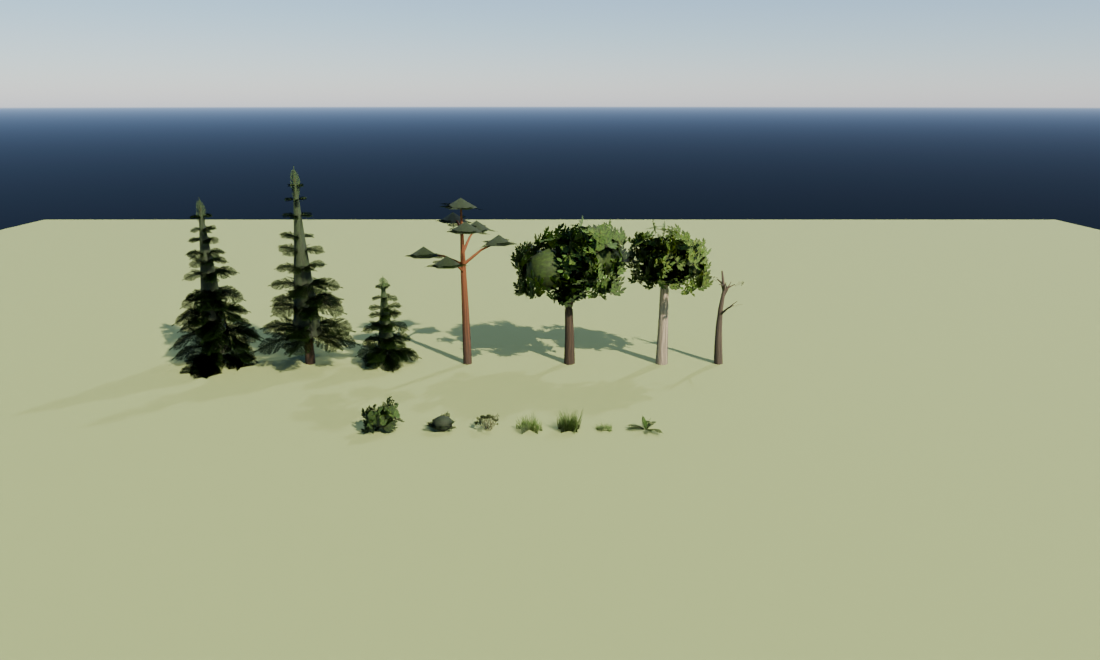
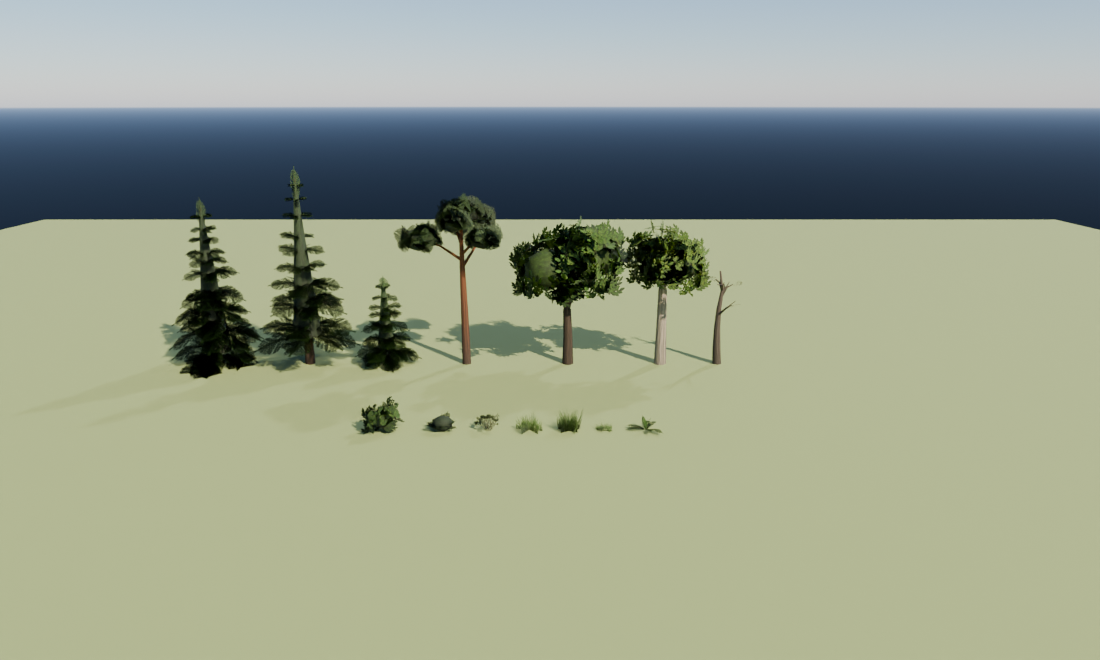
Scatter: re-export with the new pine, fresh previews + contact sheet, project memory
Claude-Session: https://claude.ai/code/session_01QVhVPAL9PKdtfwepf8LoLq

Changed region(s): [[0.34, 0.2727, 0.68, 0.5455], [0.3091, 0.4848, 0.4327, 0.5152]]

diff --git a/CLAUDE.md b/CLAUDE.md
@@ -54,7 +54,7 @@ Fan-made Star Trek RTS design package plus a playable Godot prototype. `README.m
 - **Owner tested 2026-11-05: "it works"** — Mining Vehicle Mk I in the game and the drop ship deliveries.
 - **Outpost levels (next candidate, waiting on the owner, 2026-11-05):** owner asked to see the outpost mockup again (sent `blender/previews/outpost/outpost-sheet.png` + the L1/L5/L10 game-camera renders). Two questions are open before it goes into the game: (1) does the Colony Hub get 10 real levels in buildings.json (cost, build_seconds, what each unlocks) or stay at 3 data levels (Colony Hub → Colonial Administration → Planetary Capital) with the in-between levels only changing the model; (2) do levels 7–10 claim the neighbouring tiles (nothing else buildable there) or only overlap them visually. Other options offered at the same time: construction rover + second outposts, rover damage + flat tyres, the Cardassian rival; smaller: Alloy Foundry pause, rover mark research, game-ready Federation outpost glb.
 - **Depletion:** used-up mines go `Depleted`; `SalvageCommand` (X on a finished non-core building) refunds `salvage_refund` (50%) and frees the tile; `deep_core_mine` (`requires_depleted`, `reopen_share` 0.5, `requires_tech` deep_core_mining) reopens a deposit once (`SurfaceMap.DepositStart` / `DepositReopened`).
-- **Rendering:** fog is render-only (`PlanetView.FogAt`: visible = within 3 tiles of own buildings / survey radius + 1 of rovers), drawn through a one-texel-per-tile texture the terrain, water and foliage shaders sample by world position. Terrain is one mesh (corners average neighbouring heights; hexes subdivided with bumps; mountains have a high base so ranges merge, peaks ~40–78, snow above ~34). **Scatter** (owner 2026-11-05: "more realistic trees, rocks, grass"): `blender/build_scatter.py` builds every asset procedurally into one `game/models/scatter/scatter.glb` (~0.8 MB; nodes conifer_a/b/c (spruce, fir, young), pine_a, broadleaf_a/b (oak, birch), bush_a/b, shrub_desert, snag, grass_a/b/c, fern, boulder_a/b/c, rock_cluster, scree, pebbles, sandstone_a/b, ice_a/b, plus `<x>_far` stand-ins conifer_a/pine_a/broadleaf_a/boulder_a/rock_cluster/sandstone_a/ice_a; material "Foliage" = vertex colour × a 512² painted atlas (needles, leaves, grass, twigs, bark, speckle; UV2 = wind flex + phase; custom normals bent out of the crown), "Rock" = vertex colour only; previews + contact sheet in `blender/previews/scatter/`). Game: `scripts/Scatter.cs` (`ScatterAssets`: lifts the meshes and atlas out of the glb, primitive cones/spheres if it isn't imported) + `scripts/PlanetView.Scatter.cs` (partial PlanetView: `ScatterRules` per terrain, render-only `RandomNumberGenerator` 4242 + FastNoiseLite groves/meadows, placed on the exact terrain triangles (`SurfaceAt`), instances within each tile's circumcircle so borders blend; one MultiMesh per model per 8×8-tile chunk filled through `MultiMesh.Buffer` (layout checked once, per-instance fallback); near trees/rocks hand over to the shared far meshes at 330–400 units with a per-pixel dither (`lod_band`, distance from `eye_position` = the game camera, set every frame, so shadows match), bushes fade 300–360, scree 220–270, grass sinks 140–215; chunk `VisibilityRange` culls around that; `UpdateScatter` hides instances within 8.5 of a building / 14.5 of a core or a landing site (pod descending on) and restores them when it goes; trees/rocks/bushes keep 5.5 around buildable tile centres). Shaders: `foliage.gdshader` (fog texture as before, wind sway by height with a world-position phase + UV2 flutter, BACKLIGHT translucency, alpha scissor + alpha-to-coverage, own normals), `rock.gdshader` (vertex colour × model-space noise, INSTANCE_CUSTOM.y snow / .z moss). Budget on 128×88 seed 1701: ~28k trees, ~150k grass, ~36k bushes/ferns/shrubs, ~18k rocks, ~9k scree patches (+ far copies). Not yet seen in Godot. Models are primitives in `scripts/BuildingModels.cs`. Planet HUD is `scripts/PlanetHud.cs` (+ `Minimap.cs`, `Icons.cs`); `scripts/Hud.cs` is only the star-system view's.
+- **Rendering:** fog is render-only (`PlanetView.FogAt`: visible = within 3 tiles of own buildings / survey radius + 1 of rovers), drawn through a one-texel-per-tile texture the terrain, water and foliage shaders sample by world position. Terrain is one mesh (corners average neighbouring heights; hexes subdivided with bumps; mountains have a high base so ranges merge, peaks ~40–78, snow above ~34). **Scatter** (owner 2026-11-05: "more realistic trees, rocks, grass"): `blender/build_scatter.py` builds every asset procedurally into one `game/models/scatter/scatter.glb` (~0.85 MB, 8 to 740 tris per model; nodes conifer_a/b/c (spruce, fir, young), pine_a (Scots pine: limbs ending in needle clumps), broadleaf_a/b (oak, birch), bush_a/b, shrub_desert, snag, grass_a/b/c, fern, boulder_a/b/c, rock_cluster, scree, pebbles, sandstone_a/b, ice_a/b, plus `<x>_far` stand-ins conifer_a/pine_a/broadleaf_a/boulder_a/rock_cluster/sandstone_a/ice_a; material "Foliage" = vertex colour × a 512² painted atlas (needles, leaves, grass, twigs, bark, speckle; UV2 = wind flex + phase; custom normals bent out of the crown), "Rock" = vertex colour only; previews + contact sheet in `blender/previews/scatter/`). Game: `scripts/Scatter.cs` (`ScatterAssets`: lifts the meshes and atlas out of the glb and rebuilds each mesh without the importer's auto LODs (a MultiMesh picks one LOD per chunk and simplified cards go ragged); primitive cones/spheres if it isn't imported) + `scripts/PlanetView.Scatter.cs` (partial PlanetView: `ScatterRules` per terrain, render-only `RandomNumberGenerator` 4242 + FastNoiseLite groves/meadows, placed on the exact terrain triangles (`SurfaceAt`), instances within each tile's circumcircle so borders blend; one MultiMesh per model per 8×8-tile chunk filled through `MultiMesh.Buffer` (layout checked once, per-instance fallback); near trees/rocks hand over to the shared far meshes at 330–400 units with a per-pixel dither (`lod_band`, distance from `eye_position` = the game camera, set every frame, so shadows match), bushes fade 300–360, scree 220–270, grass sinks 140–215; chunk `VisibilityRange` culls around that; `UpdateScatter` hides instances within 8.5 of a building / 14.5 of a core or a landing site (pod descending on) and restores them when it goes; trees/rocks/bushes keep 5.5 around buildable tile centres). Shaders: `foliage.gdshader` (fog texture as before, wind sway by height with a world-position phase + UV2 flutter, BACKLIGHT translucency, alpha scissor + alpha-to-coverage, own normals), `rock.gdshader` (vertex colour × model-space noise, INSTANCE_CUSTOM.y snow / .z moss). Budget on 128×88 seed 1701 (counted with the sim's map, before slope/height filters): ~28k trees, ~150k grass, ~36k bushes/ferns/shrubs, ~18k rocks, ~9k scree patches, ~46k far copies; grass draws only within ~215 of the camera. Not yet seen in Godot: check the Output panel for foliage/rock shader errors first. Models are primitives in `scripts/BuildingModels.cs`. Planet HUD is `scripts/PlanetHud.cs` (+ `Minimap.cs`, `Icons.cs`); `scripts/Hud.cs` is only the star-system view's.
 
 ### Proposed next (not yet confirmed by the owner)
 
